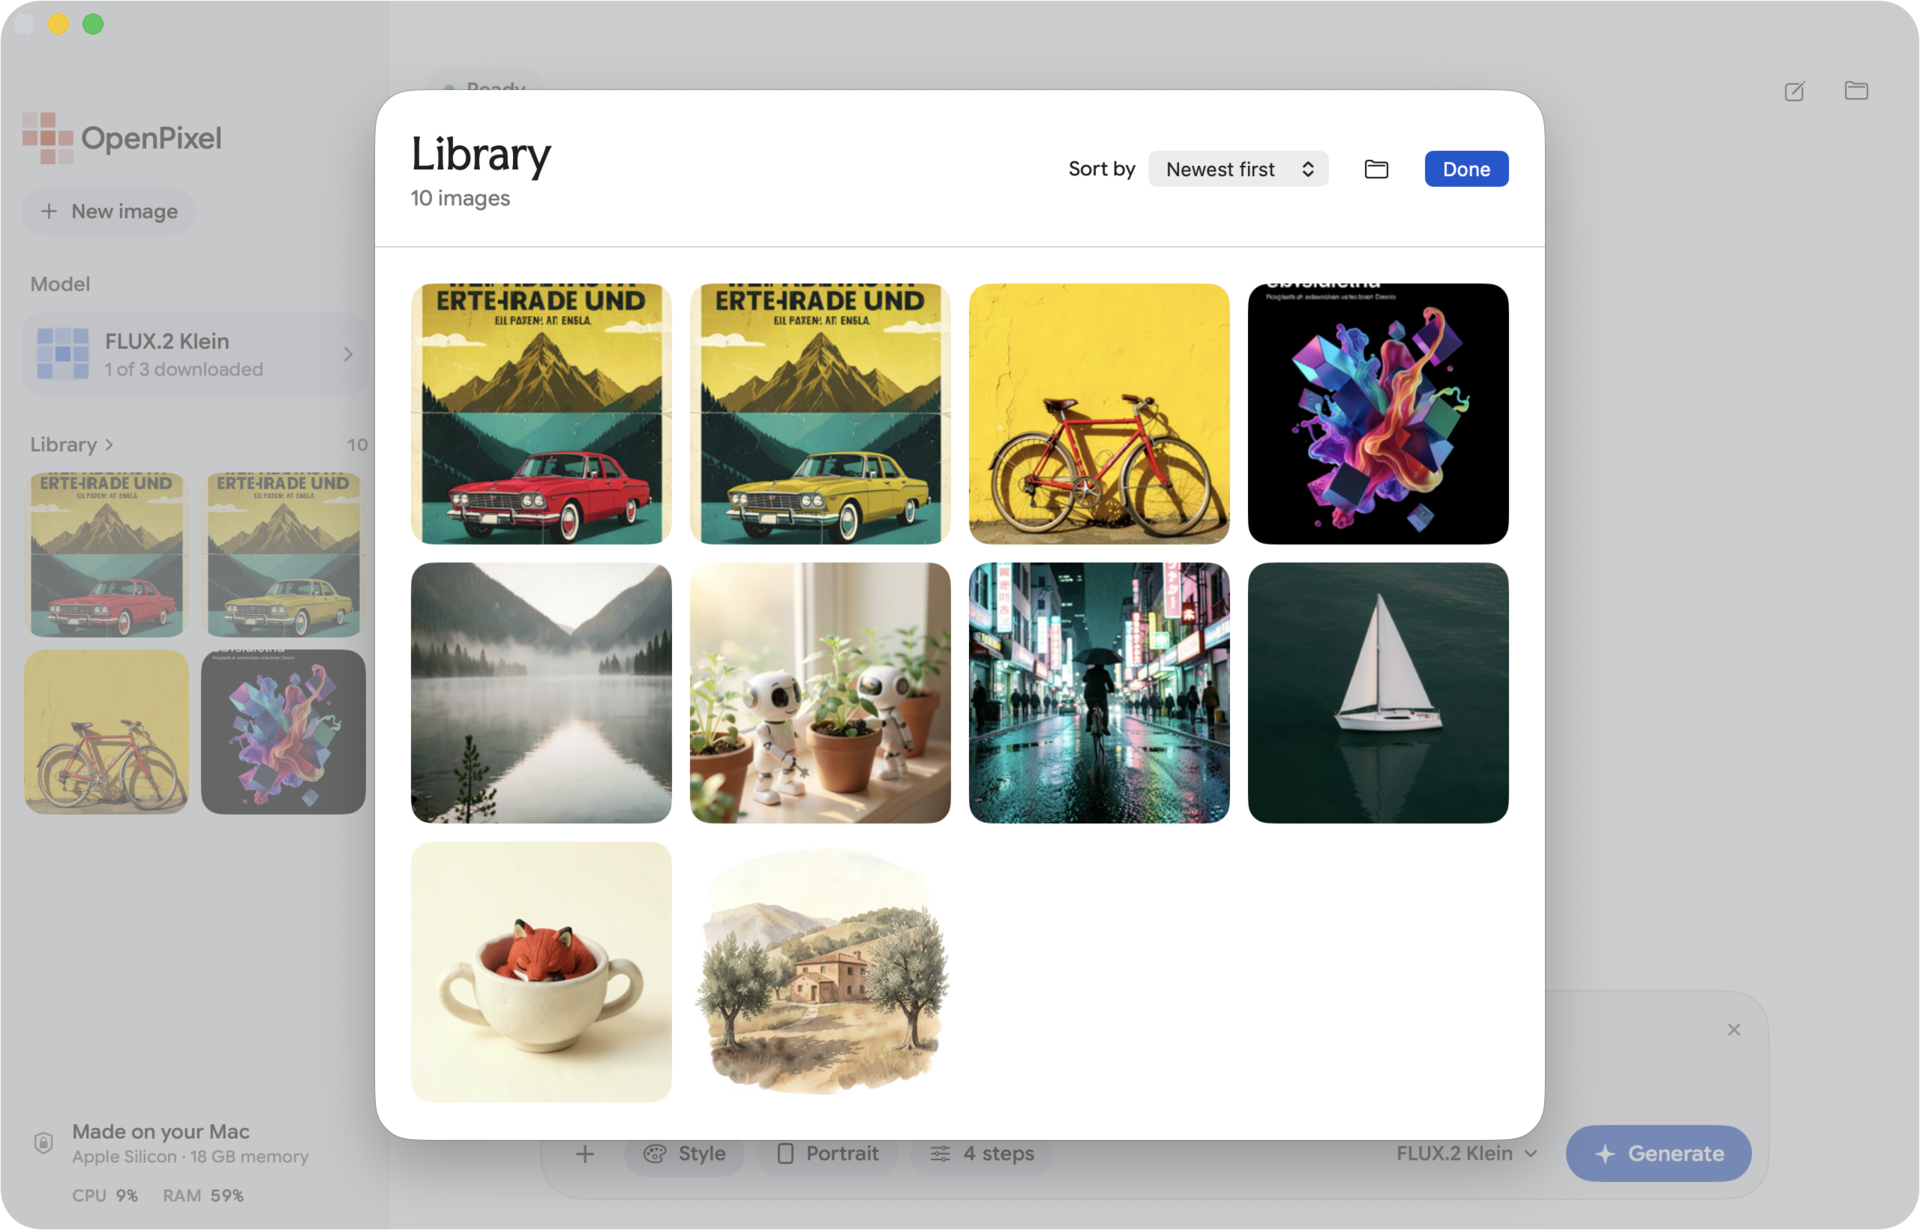
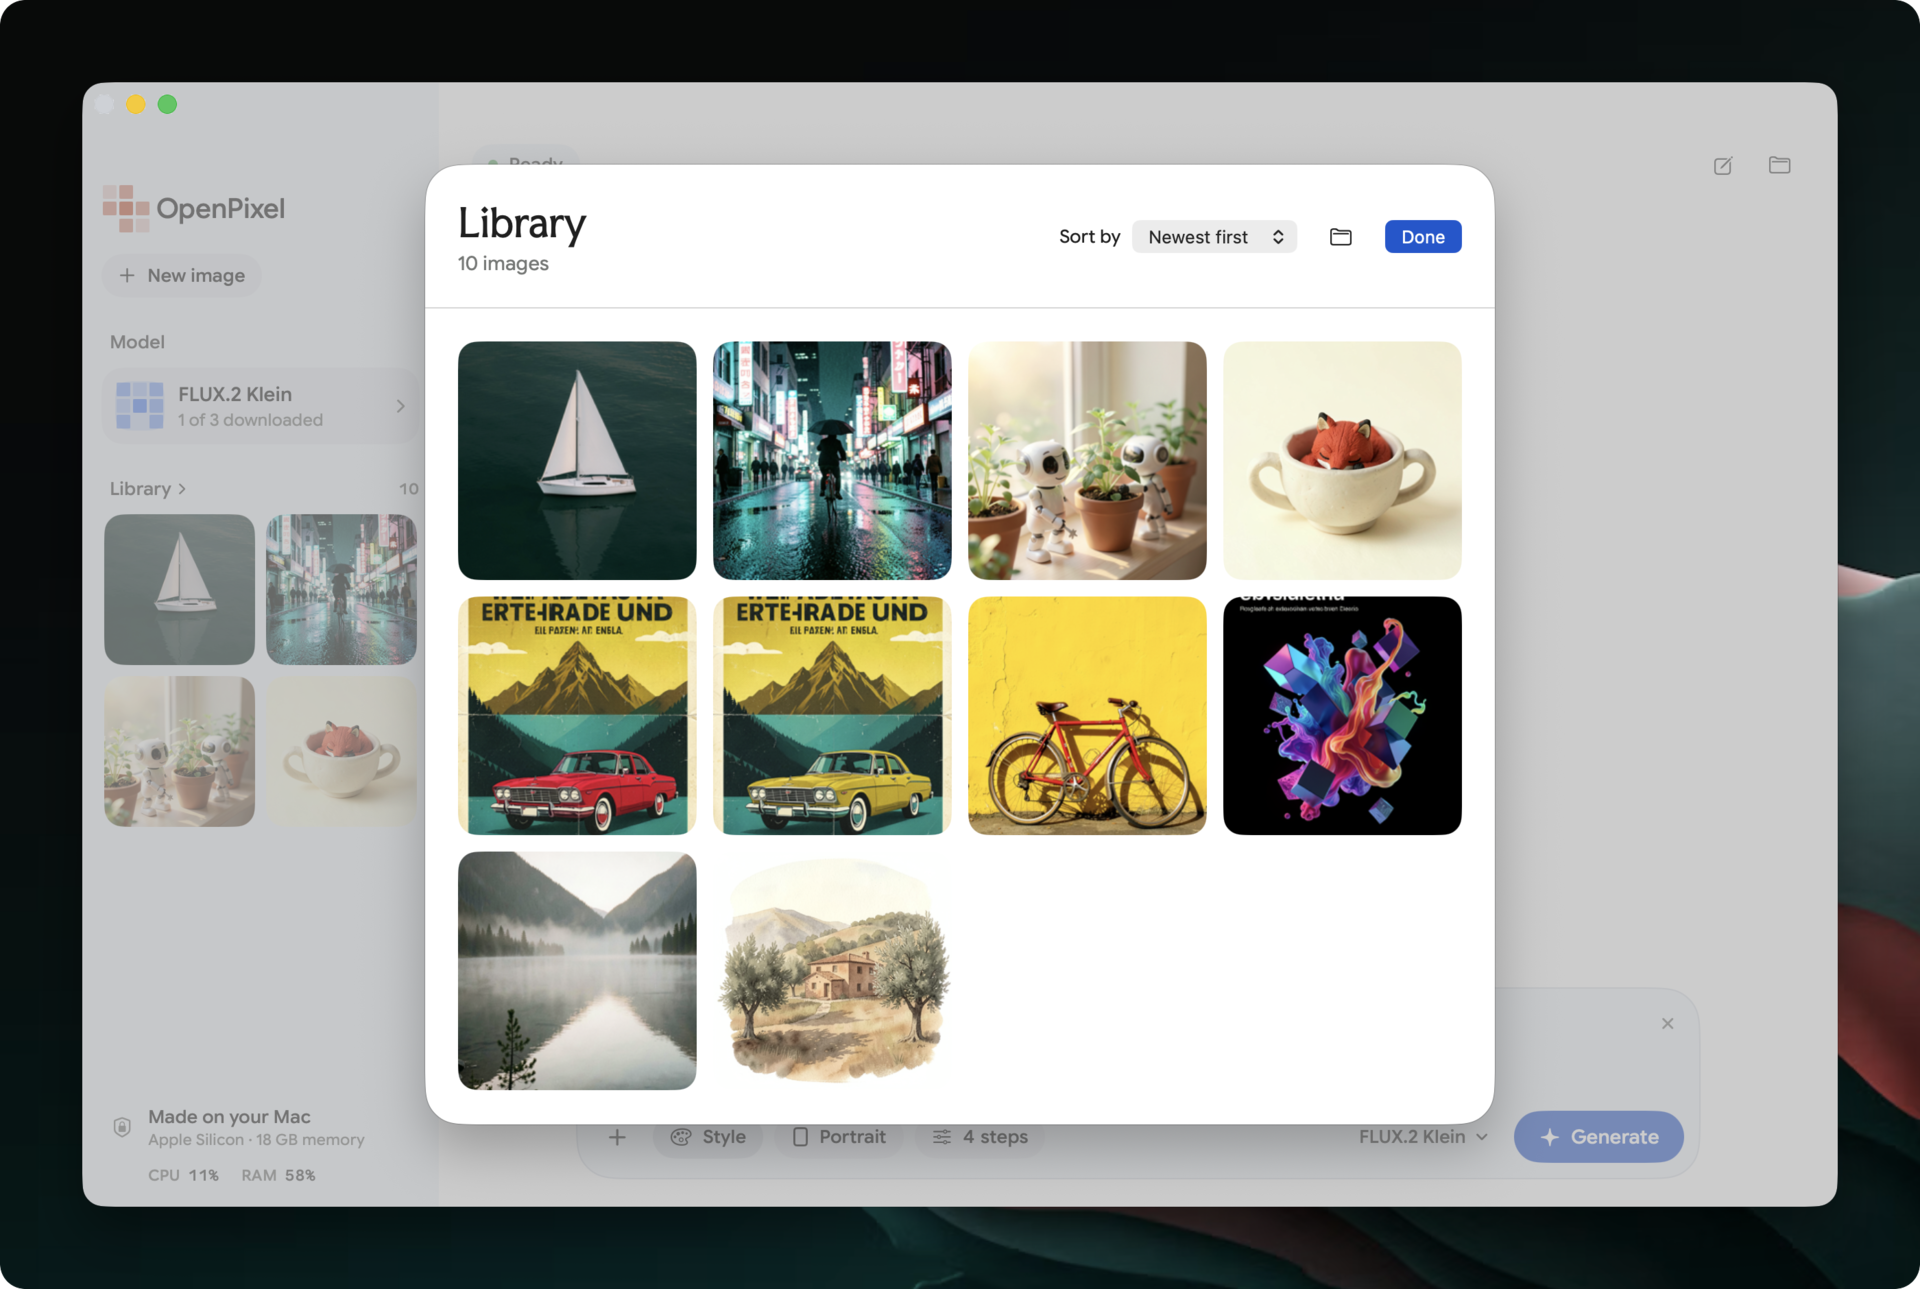
docs: Refresh README screenshots with desktop framing
Swap the hero to a clean image, drop garbled-text posters from the
main views, and frame each shot with the desktop background.

diff --git a/README.md b/README.md
@@ -4,7 +4,7 @@ OpenPixel is a native macOS app for generating images locally with FLUX.2 Klein.
 It uses SwiftUI and a bundled Python/MLX worker. No account, cloud service, or
 separate Python install is needed.
 
-![OpenPixel showing a generated vintage travel poster](docs/screenshots/01-generate.png)
+![OpenPixel showing a generated photo of a sailboat on dark water](docs/screenshots/01-generate.png)
 
 ## Get started
 
